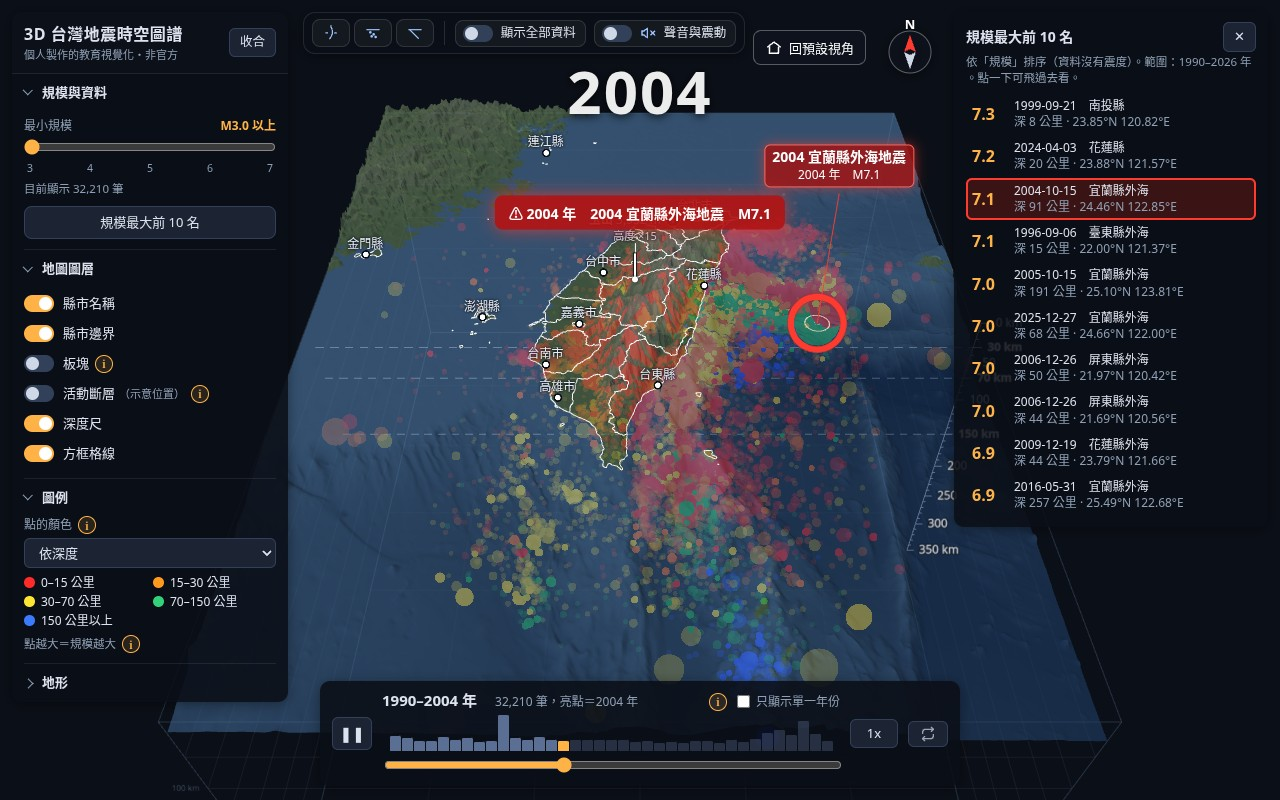
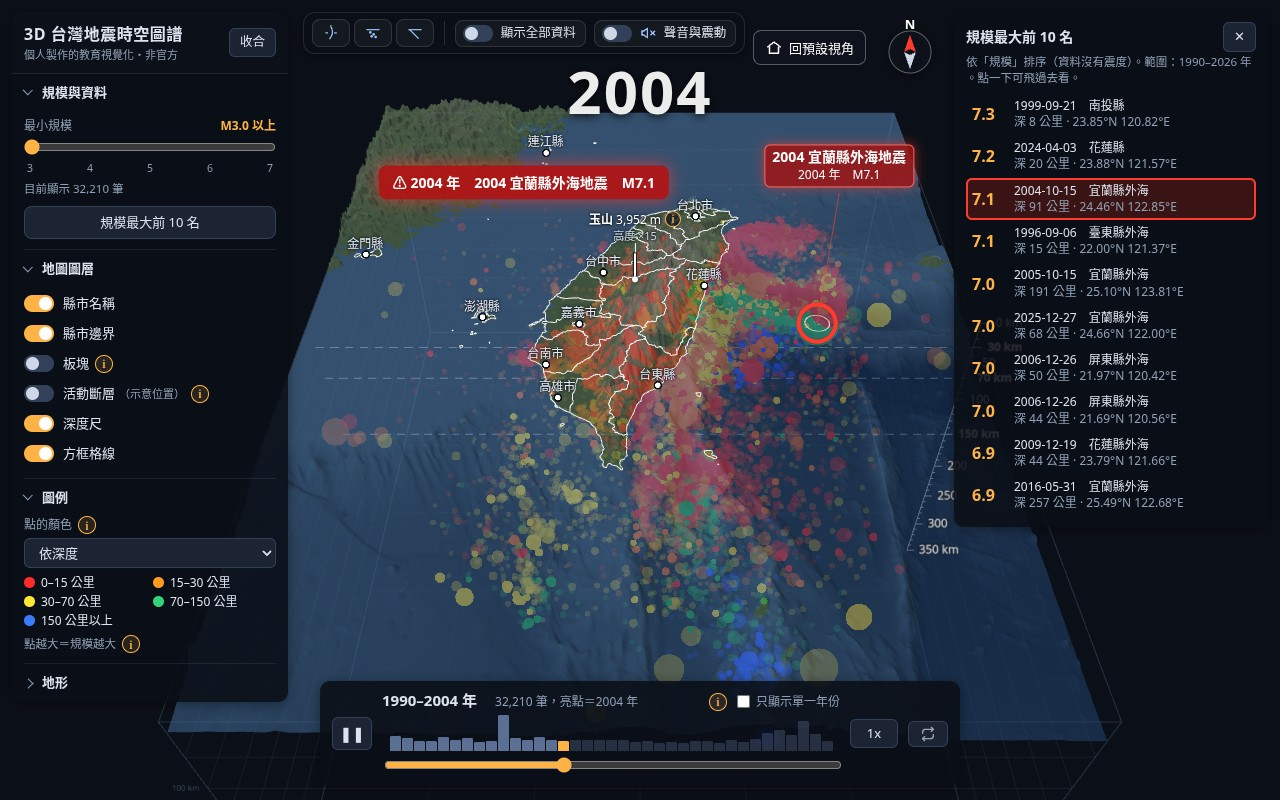
Keep M7 toast clear of map labels and earthquake markers

Changed region(s): [[0.2812, 0.1875, 0.625, 0.3125], [0.5938, 0.3438, 0.6875, 0.4375]]

diff --git a/src/main.js b/src/main.js
@@ -496,7 +496,14 @@ window.__waves = () => waves.length;
 // ---- 規模 7 以上：播放時特別標示（紅色光柱＋震源紅圈＋文字標籤＋上方提示）----
 const alerts = [];
 const m7Toast = $('m7toast');
-const m7ToastControls = [$('bigYear'), $('panel'), $('rank'), $('compass'), $('homeBtn'), document.querySelector('#mapbar .in')];
+let m7ToastFadeUntil = 0;
+let m7ToastAlert;
+let visiblePlateLabels = () => [];
+const m7ToastObstacles = [
+  $('bigYear'), $('panel'), $('rank'), $('compass'), $('homeBtn'), $('timebar'),
+  $('qcard'), $('fcard'), document.querySelector('#mapbar .in'),
+  yushanEl, yushanLine, ...rulerEdge.map(r => r.el), ...CITIES.map(c => c.el),
+];
 const alertRingTex = (() => {
   const c = document.createElement('canvas'); c.width = c.height = 128;
   const x = c.getContext('2d'); x.strokeStyle = '#ff3b30'; x.lineWidth = 12; x.beginPath(); x.arc(64, 64, 48, 0, Math.PI * 2); x.stroke();
@@ -524,27 +531,88 @@ function m7Alert(q, place, life) {
   const name = quakeName(q, place);
   label.innerHTML = `<b>${name}</b><br>${q.yr} 年　M${q.mag.toFixed(1)}`;
   document.body.appendChild(label);
-  m7Toast.innerHTML = `⚠ ${q.yr} 年　${name}　M${q.mag.toFixed(1)}`; m7Toast.classList.add('show');
-  clearTimeout(m7Toast._t); m7Toast._t = setTimeout(() => m7Toast.classList.remove('show'), life);
-  alerts.push({ grp, label, t0: now, life, top: new THREE.Vector3(q.x, top, q.z) });
+  $('m7toastText').textContent = `⚠ ${q.yr} 年　${name}　M${q.mag.toFixed(1)}`; m7Toast.classList.add('show');
+  clearTimeout(m7Toast._t);
+  m7Toast._t = setTimeout(() => {
+    m7Toast.classList.remove('show');
+    m7ToastFadeUntil = performance.now() + 200;
+  }, life);
+  m7ToastAlert = {
+    grp, label, t0: now, life,
+    top: new THREE.Vector3(q.x, top, q.z),
+    surface: new THREE.Vector3(q.x, lid.position.y, q.z),
+  };
+  alerts.push(m7ToastAlert);
 }
 const _v = new THREE.Vector3();
-function placeM7Toast() {
-  const { left, right, height } = m7Toast.getBoundingClientRect();
-  const preferred = m7Toast.offsetTop;
-  const gap = 8;
-  const maxTop = $('timebar').getBoundingClientRect().top - height - gap;
-  const blockers = [...m7ToastControls, ...alerts.map(a => a.label)]
-    .map(el => el.getBoundingClientRect())
-    .filter(box => box.width && box.height && box.left < right + gap && box.right > left - gap);
+function m7MapBounds() {
+  const width = innerWidth, height = innerHeight;
+  const boxes = [];
+  const add = (kind, position, w, h, anchorX = 0.5, anchorY = 0.5) => {
+    _v.copy(position).project(camera);
+    if (_v.z < -1 || _v.z > 1) return;
+    const left = (_v.x + 1) * width / 2 - w * anchorX;
+    const top = (1 - _v.y) * height / 2 - h * (1 - anchorY);
+    boxes.push({ kind, left, top, right: left + w, bottom: top + h });
+  };
+  // These ruler labels are canvas textures on sprites with constant screen size.
+  const scale = camera.projectionMatrix.elements[5] * height / 2;
+  for (const group of [depthRuler, depthFrame]) {
+    if (!group.visible) continue;
+    for (const sprite of group.children.filter(o => o.isSprite)) {
+      add('ruler', sprite.position, sprite.scale.x * scale, sprite.scale.y * scale, sprite.center.x, sprite.center.y);
+    }
+  }
+  for (const sprite of visiblePlateLabels()) {
+    const position = sprite.getWorldPosition(new THREE.Vector3());
+    const depth = -_v.copy(position).applyMatrix4(camera.matrixWorldInverse).z;
+    if (depth > 0) add('plate', position, sprite.scale.x * scale / depth, sprite.scale.y * scale / depth);
+  }
+  const markers = [...alerts];
+  if (m7ToastAlert && !alerts.includes(m7ToastAlert)) markers.push(m7ToastAlert);
+  for (const { grp, surface } of markers) {
+    const ring = grp.children[1];
+    add('hypocenter', ring.position, ring.scale.x * scale, ring.scale.y * scale);
+    surface.y = lid.position.y; // Same surface as the epicenter shockwave.
+    add('epicenter', surface, 40, 40);
+  }
+  return boxes.filter(box => box.right > 0 && box.left < width && box.bottom > 0 && box.top < height);
+}
+window.__m7MapBounds = m7MapBounds;
 
-  // Prefer the usual position. Try the edges of overlapping UI and labels for the nearest clear slot.
-  const candidates = [preferred, ...blockers.flatMap(box => [box.bottom + gap, box.top - height - gap])];
-  candidates.sort((a, b) => Math.abs(a - preferred) - Math.abs(b - preferred));
-  const top = candidates.find(y => y >= gap && y <= maxTop && blockers.every(box =>
-    y + height + gap <= box.top || y >= box.bottom + gap
-  )) ?? preferred;
-  m7Toast.style.setProperty('--m7-toast-shift', `${top - preferred}px`);
+function placeM7Toast() {
+  const { width, height } = m7Toast.getBoundingClientRect();
+  const preferredX = (innerWidth - width) / 2;
+  const preferredY = m7Toast.offsetTop;
+  const gap = 8;
+  const blockers = [...m7ToastObstacles, ...alerts.map(a => a.label)]
+    .map(el => el.getBoundingClientRect())
+    .filter(box => box.width && box.height);
+  blockers.push(...m7MapBounds());
+
+  // The closest clear rectangle touches either the preferred coordinate or an obstacle/viewport edge.
+  const xs = [preferredX, gap, innerWidth - width - gap, ...blockers.flatMap(box => [box.left - width - gap, box.right + gap])];
+  const ys = [preferredY, gap, innerHeight - height - gap, ...blockers.flatMap(box => [box.top - height - gap, box.bottom + gap])];
+  let best = Infinity, left, top;
+  for (const x of xs) {
+    if (x < gap || x + width > innerWidth - gap) continue;
+    const dx = (x - preferredX) ** 2;
+    if (dx >= best) continue;
+    const column = blockers.filter(box => x + width + gap > box.left && x < box.right + gap);
+    for (const y of ys) {
+      const distance = dx + (y - preferredY) ** 2;
+      if (distance >= best || y < gap || y + height > innerHeight - gap) continue;
+      if (column.some(box => y + height + gap > box.top && y < box.bottom + gap)) continue;
+      best = distance;
+      left = x;
+      top = y;
+    }
+  }
+  m7Toast.toggleAttribute('data-blocked', best === Infinity);
+  if (best !== Infinity) {
+    m7Toast.style.setProperty('--m7-toast-x', `${left - preferredX}px`);
+    m7Toast.style.setProperty('--m7-toast-y', `${top - preferredY}px`);
+  }
 }
 function updateAlerts(now) {
   for (let i = alerts.length - 1; i >= 0; i--) {
@@ -560,7 +628,6 @@ function updateAlerts(now) {
     a.label.style.transform = `translate(-50%, -100%) translate(${(_v.x + 1) / 2 * innerWidth}px, ${(1 - _v.y) / 2 * innerHeight - 6}px)`;
     a.label.style.opacity = fade;
   }
-  if (m7Toast.classList.contains('show')) placeM7Toast();
 }
 window.__alerts = () => alerts.map(a => ({ text: a.label.textContent, shown: a.label.style.display !== 'none' }));
 
@@ -937,6 +1004,7 @@ var platePick = null;  // 板塊載入後：點 3D 標籤 → 小卡代號
       plates.setReal(terrainCtl.real); terrainCtl.onReal.push(r => plates.setReal(r));
       platePick = (x, y) => plates.pickLabel(x, y, camera);
       window.__plateLabels = () => { camera.updateMatrixWorld(); return plates.labelScreen(camera); };
+      visiblePlateLabels = plates.visibleLabelSprites;
       window.__PLATES_READY__ = { slabs: plates.slabs, boundaries: plates.boundaries };
     }
     plates.setVisible(cb.checked);
@@ -1007,8 +1075,13 @@ renderer.setAnimationLoop(() => {
     camera.position.lerpVectors(fly.p0, fly.p1, e); controls.target.lerpVectors(fly.t0, fly.t1, e);
     if (t >= 1) fly = null;
   }
+  controls.update(); camera.updateMatrixWorld();
   const now = performance.now(); updateWaves(now); updateAlerts(now); updateRulerTags(); updateYushan(); updateCompass(); updateCities(); updateCard(); faultTick?.(now);
-  controls.update(); renderer.render(scene, camera);
+  if (m7ToastAlert) {
+    if (m7Toast.classList.contains('show') || now < m7ToastFadeUntil) placeM7Toast();
+    else m7ToastAlert = undefined;
+  }
+  renderer.render(scene, camera);
 });
 $('ruler').addEventListener('change', e => { depthRuler.visible = e.target.checked; });
 { // 「方框格線」開關（深度框）：預設開，記在 localStorage

diff --git a/index.html b/index.html
@@ -39,13 +39,16 @@
   #bigYear.on{display:block}
   .m7label{position:fixed;left:0;top:0;pointer-events:none;z-index:6;background:rgba(160,20,20,.85);color:#fff;border:1px solid #ff6b60;border-radius:6px;padding:3px 7px;font-size:12px;line-height:1.35;text-align:center;white-space:nowrap;box-shadow:0 0 12px rgba(255,59,48,.6)}
   .m7label b{font-size:14px}
-  #m7toast{position:fixed;left:50%;top:14px;transform:translate(-50%,var(--m7-toast-shift,0px));z-index:7;pointer-events:none;background:rgba(180,20,20,.92);color:#fff;font-size:14px;font-weight:600;padding:7px 14px;border-radius:8px;box-shadow:0 0 16px rgba(255,59,48,.7);opacity:0;visibility:hidden;transition:opacity .2s,visibility .2s;white-space:nowrap;max-width:calc(100% - 24px);overflow:hidden;text-overflow:ellipsis}
+  #m7toast{position:fixed;left:50%;top:14px;transform:translate(calc(-50% + var(--m7-toast-x,0px)),var(--m7-toast-y,0px));z-index:7;pointer-events:none;color:#fff;font-size:14px;font-weight:600;border-radius:8px;box-shadow:0 0 16px rgba(255,59,48,.7);opacity:0;visibility:hidden;transition:opacity .2s,visibility .2s;white-space:nowrap;max-width:calc(100% - 24px);overflow:hidden}
+  #m7toastText{display:block;background:rgba(180,20,20,.92);padding:7px 14px;overflow:hidden;text-overflow:ellipsis;transform:translateY(-150%);transition:transform .2s}
   .peakTag{position:fixed;left:0;top:0;z-index:4;pointer-events:none;color:#fff;font-size:12px;line-height:1.3;text-align:center;text-shadow:0 0 3px #0b0f17,0 0 3px #0b0f17;padding-bottom:10px;background:linear-gradient(#fff,#fff) no-repeat bottom center/1px 10px}
   .peakTag span{color:#cfd8e6;font-size:11px}
   .peakLine{position:fixed;left:0;top:0;z-index:4;pointer-events:none;width:1.5px;margin-left:-0.75px;background:#fff;transform-origin:0 0;box-shadow:0 0 0 1px rgba(11,15,23,.75),0 0 3px #0b0f17}
   .peakLine::after{content:"";position:absolute;left:-2.5px;bottom:-3px;width:6px;height:6px;border-radius:50%;background:#fff;box-shadow:0 0 3px #0b0f17}
   .rulerTag{position:fixed;left:0;top:0;z-index:4;pointer-events:none;color:#fff;font-size:12px;font-weight:700;text-shadow:0 0 3px #0b0f17,0 0 3px #0b0f17}
   #m7toast.show{opacity:1;visibility:visible}
+  #m7toast.show #m7toastText{transform:translateY(0)}
+  #m7toast[data-blocked]{visibility:hidden;transition:none}
   #speed{width:48px;flex:none;font-size:13px;padding:4px 0}
   #loop{width:40px;flex:none;padding:4px 0;display:grid;place-items:center;color:#9aa6b8}
   #loop[aria-pressed="true"]{color:#ffb547;border-color:#ffb547;background:rgba(255,181,71,.15)}
@@ -205,7 +208,8 @@
     #compass{top:58px;right:6px;transform:scale(.85)}
     #homeBtn{top:128px;right:12px;padding:7px;}
     #homeBtn span{display:none}
-    #m7toast{top:112px;font-size:13px;padding:6px 12px;white-space:normal;text-align:center;max-width:calc(100% - 160px)} /* v0.5.10：放到大年份下方、避開指北針，不再蓋住年份 */
+    #m7toast{top:112px;font-size:13px;white-space:normal;text-align:center;max-width:calc(100% - 136px)} /* v0.5.10：放到大年份下方、避開指北針，不再蓋住年份 */
+    #m7toastText{padding:6px 12px}
     #timebar .mid>div{white-space:nowrap;overflow:hidden;text-overflow:ellipsis}
     #countText{font-size:11px;margin-left:5px}
     #yearText{font-size:13px}
@@ -244,6 +248,11 @@
   /* 空間不夠時（較窄的電腦視窗或右側排行榜打開）：先收起小字說明，再把視角鈕縮成圖示（滑過仍有說明） */
   @media (min-width:641px) and (max-width:1199px){ #mapbar .tg small,#mapbar .vb span{display:none} }
   @media (min-width:641px) and (max-width:1599px){ body:has(#rank.open) #mapbar .tg small,body:has(#rank.open) #mapbar .vb span{display:none} }
+  /* 收窄時讓提示能換行，排行榜開啟時縮到兩個面板之間。 */
+  @media (min-width:641px) and (max-width:940px){
+    #m7toast{max-width:220px;white-space:normal;text-align:center}
+    body:has(#rank.open) #m7toast{max-width:max(110px,calc(100% - 630px))}
+  }
   #intro{position:fixed;inset:0;z-index:50;display:flex;align-items:center;justify-content:center;background:#0b0f17;transition:opacity 1.2s ease;pointer-events:none}
   #intro.hide{opacity:0}
   #intro canvas{position:absolute;inset:0;width:100%;height:100%;opacity:0;animation:introIn 2s ease .4s forwards}
@@ -366,7 +375,7 @@ window.__introState='showing';fb=setTimeout(function(){window.__introDone()},150
 
 <div id="mapbar" role="toolbar" aria-label="地圖工具列"><div class="in"></div></div>
 <div id="bigYear"></div>
-<div id="m7toast"></div>
+<div id="m7toast"><span id="m7toastText"></span></div>
 <div id="qcard" class="card" role="dialog" aria-label="地震資料"><button class="x" aria-label="關閉">✕</button><div id="qbody"></div></div>
 <div id="fcard" class="card" role="status" aria-live="polite"></div>
 <div id="timebar" class="card">

diff --git a/src/plates.js b/src/plates.js
@@ -185,5 +185,6 @@ export async function initPlates({ scene, lid, toX, toZ, DEPTH_SCALE, TERRAIN_EX
     return hit ? hit.object.userData.edu : null;
   };
   const labelScreen = camera => labels.map(s => { const v = new THREE.Vector3(); s.getWorldPosition(v); v.project(camera); return { edu: s.userData.edu, x: (v.x + 1) / 2 * innerWidth, y: (1 - v.y) / 2 * innerHeight, z: v.z }; });
-  return { setVisible, setReal, pickLabel, labelScreen, slabs: doc.slabs.map(s => ({ id: s.id, valid: s.valid, dmax: s.dmax })), boundaries: Object.keys(byId) };
+  const visibleLabelSprites = () => surface.visible ? labels : [];
+  return { setVisible, setReal, pickLabel, labelScreen, visibleLabelSprites, slabs: doc.slabs.map(s => ({ id: s.id, valid: s.valid, dmax: s.dmax })), boundaries: Object.keys(byId) };
 }
